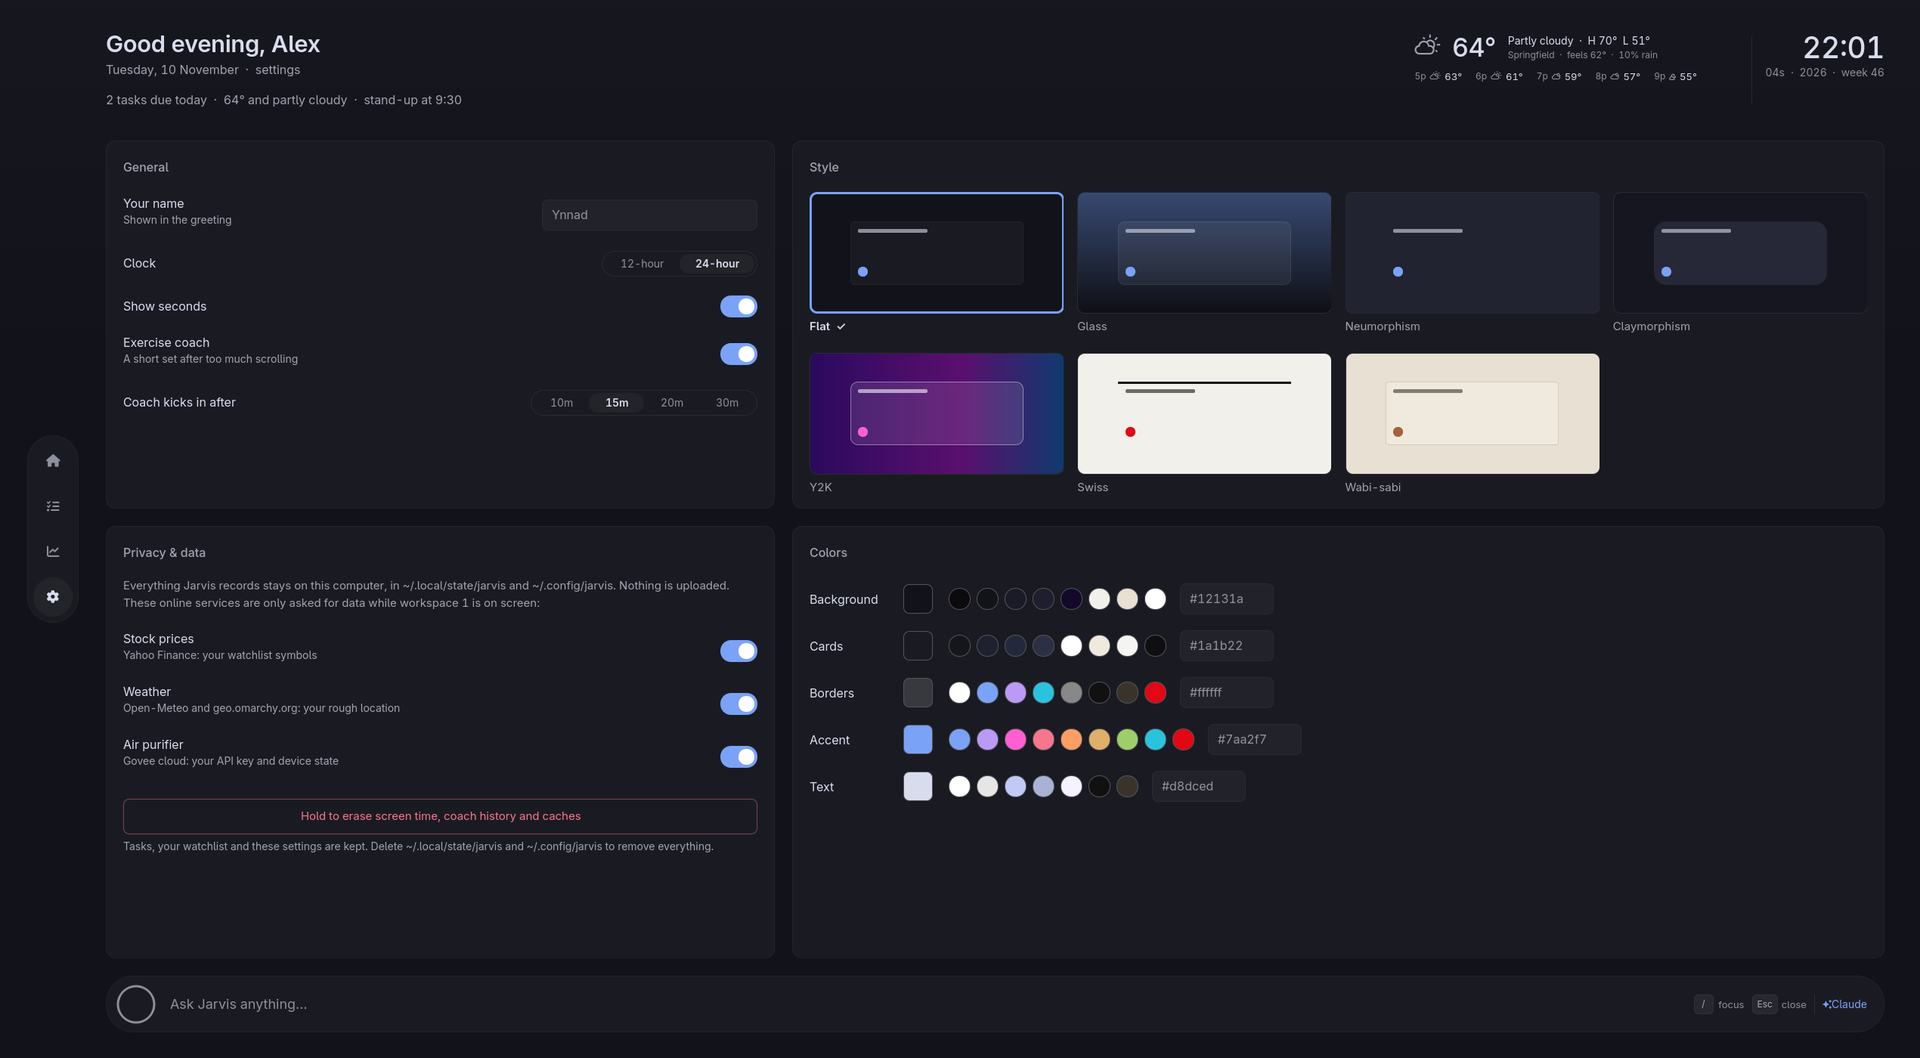
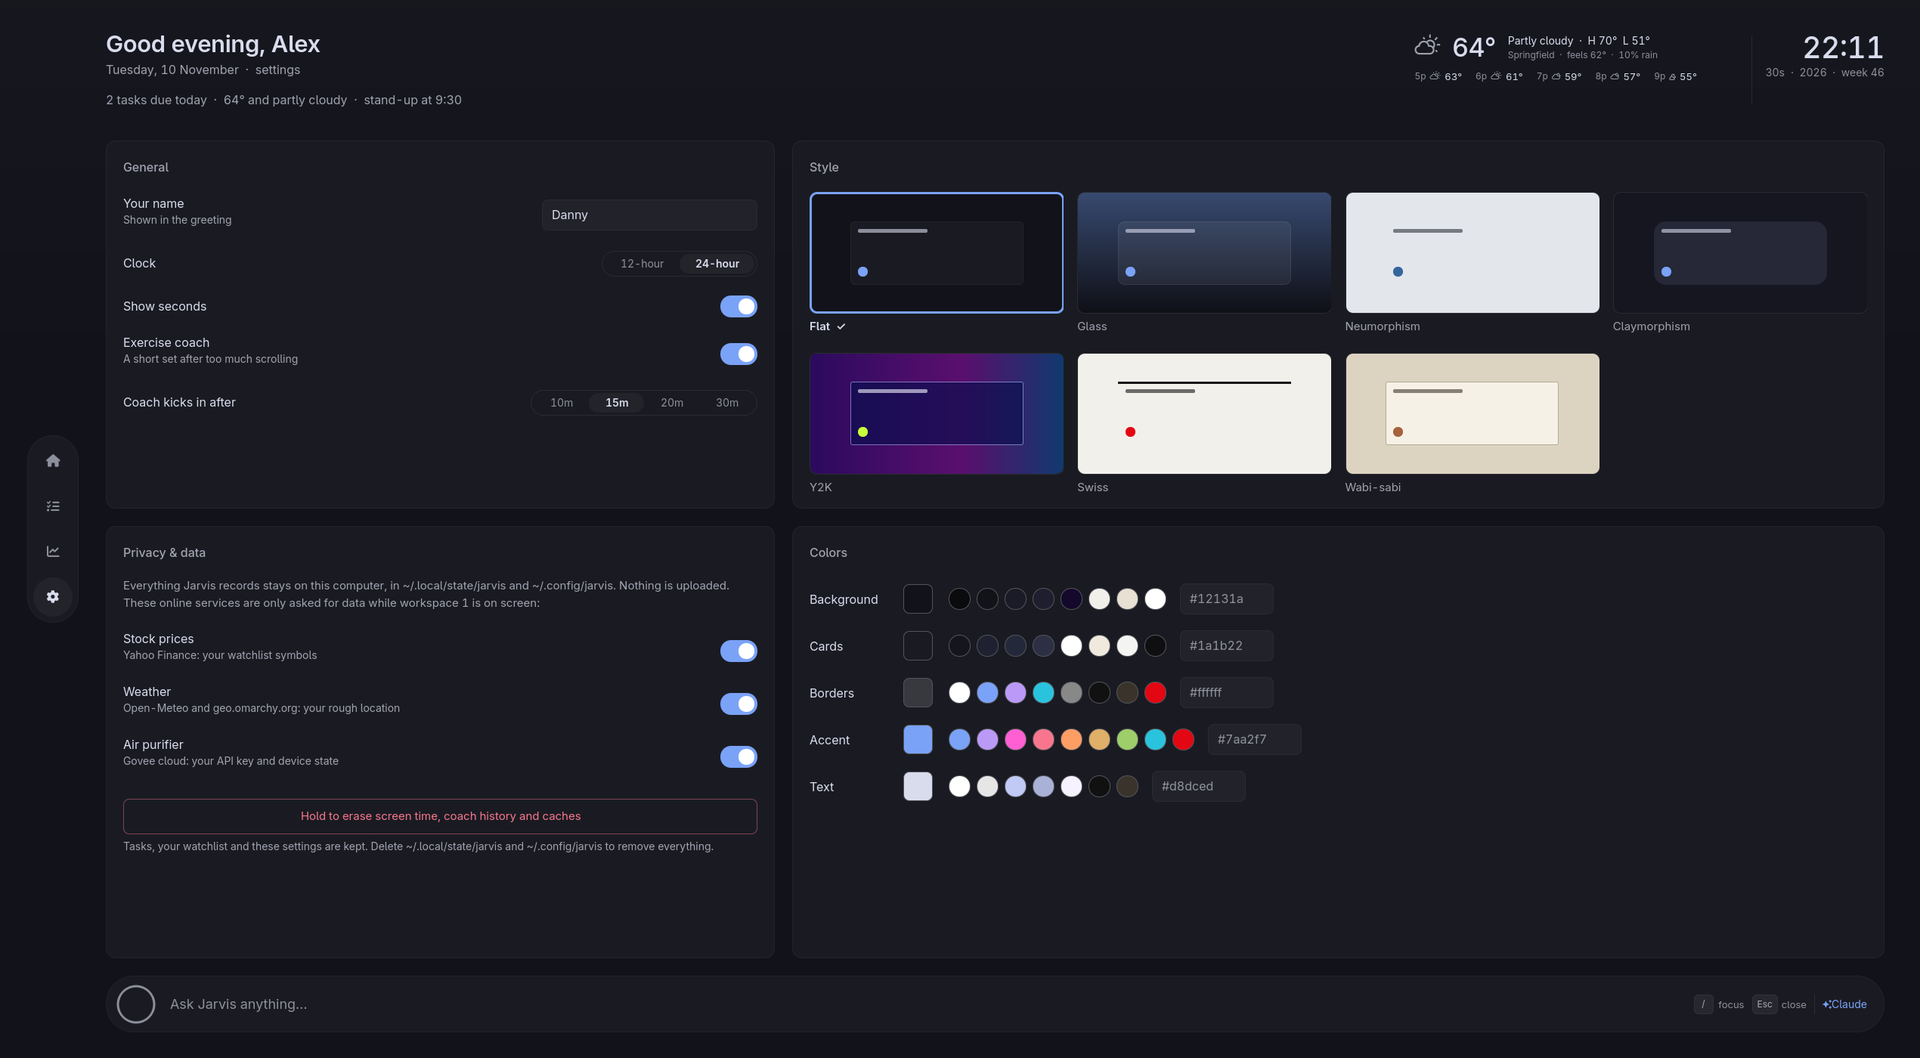
1.1.0: restyle Y2K, neumorphism and wabi-sabi; rename to omarchy-dashboard
- Y2K: electric cobalt with a perspective floor grid, a wireframe globe,
  sparkles and HUD labels; cards are retro OS windows with glossy title
  bars, window buttons, bevelled frames and hard shadows.
- Neumorphism: light soft gray, white highlights up-left, gray shade
  down-right, pressed-in fields and tracks, a muted blue accent.
- Wabi-sabi: clearer card edges, a deeper paper shadow and an inner mat
  line, so cards stand apart.
- The greeting says "User" until a name is set in Settings.
- README: a gallery of all seven styles.

Changed region(s): [[0.6875, 0.156, 0.8438, 0.3119], [0.4375, 0.3431, 0.5312, 0.4367], [0.2812, 0.1871, 0.3125, 0.2183]]

diff --git a/GlassCard.qml b/GlassCard.qml
@@ -29,6 +29,7 @@ Item {
   property real rise: t.px(8)
   readonly property bool hovered: hover.hovered
   readonly property real headerHeight: title.length > 0 ? t.px(22) : 0
+  readonly property real y2kBar: t.px(30)
   default property alias content: body.data
   property alias headerExtra: extra.data
 
@@ -62,11 +63,11 @@ Item {
   NumberAnimation { id: exit; target: card; property: "opacity"; to: 0; duration: Style.duration(110); easing.type: Easing.OutCubic }
 
   // ---- shadows (behind the surface) ----------------------------------------------
-  SoftShadow { visible: card.t.neu; target: bg; radius: bg.radius; blur: card.t.px(22); dx: -card.t.px(9); dy: -card.t.px(9); color: card.t.shadowLight; strength: 0.85 }
-  SoftShadow { visible: card.t.neu; target: bg; radius: bg.radius; blur: card.t.px(22); dx: card.t.px(9); dy: card.t.px(9); color: card.t.shadowDark; strength: 0.95 }
+  SoftShadow { visible: card.t.neu; target: bg; radius: bg.radius; blur: card.t.px(24); dx: -card.t.px(10); dy: -card.t.px(10); color: card.t.shadowLight; strength: 1.0 }
+  SoftShadow { visible: card.t.neu; target: bg; radius: bg.radius; blur: card.t.px(26); dx: card.t.px(11); dy: card.t.px(11); color: card.t.shadowDark; strength: 0.9 }
   SoftShadow { visible: card.t.clay; target: bg; radius: bg.radius; blur: card.t.px(36); dx: 0; dy: card.t.px(16); color: "black"; strength: 0.8 }
-  SoftShadow { visible: card.t.y2k; target: bg; radius: bg.radius; blur: card.t.px(26); dx: 0; dy: card.t.px(10); color: "#2a0a4a"; strength: 0.7 }
-  SoftShadow { visible: card.t.wabi; target: bg; radius: bg.radius; blur: card.t.px(16); dx: 0; dy: card.t.px(4); color: "#3a2a1a"; strength: 0.14 }
+  SoftShadow { visible: card.t.y2k; target: bg; radius: bg.radius; blur: card.t.px(3); dx: card.t.px(6); dy: card.t.px(6); color: "#00052e"; strength: 0.9; steps: 3 }
+  SoftShadow { visible: card.t.wabi; target: bg; radius: bg.radius; blur: card.t.px(22); dx: 0; dy: card.t.px(7); color: "#3a2a1a"; strength: 0.26 }
 
   // ---- the surface --------------------------------------------------------------------
   Rectangle {
@@ -125,18 +126,74 @@ Item {
       border.color: Qt.rgba(1, 1, 1, 0.07)
     }
 
-    // y2k: candy gloss over the top half
-    Rectangle {
+    // y2k: a retro OS window. Bevelled frame (light up-left, dark down-right)
+    // and a glossy title bar carrying the card's name and window buttons.
+    Item {
       visible: card.t.y2k
       anchors.fill: parent
       anchors.margins: card.t.px(1.5)
-      radius: parent.radius - card.t.px(1.5)
-      gradient: Gradient {
-        GradientStop { position: 0.0; color: Qt.rgba(1, 1, 1, 0.30) }
-        GradientStop { position: 0.45; color: Qt.rgba(1, 1, 1, 0.06) }
-        GradientStop { position: 0.5; color: Qt.rgba(1, 1, 1, 0.0) }
-        GradientStop { position: 1.0; color: Qt.rgba(1, 1, 1, 0.10) }
+      Rectangle { width: parent.width; height: 1; color: Qt.rgba(1, 1, 1, 0.55) }
+      Rectangle { width: 1; height: parent.height; color: Qt.rgba(1, 1, 1, 0.35) }
+      Rectangle { y: parent.height - 1; width: parent.width; height: 1; color: Qt.rgba(0, 0, 0.12, 0.7) }
+      Rectangle { x: parent.width - 1; width: 1; height: parent.height; color: Qt.rgba(0, 0, 0.12, 0.7) }
+
+      Rectangle {
+        id: titleBar
+        visible: card.title.length > 0
+        x: card.t.px(3); y: card.t.px(3)
+        width: parent.width - card.t.px(6)
+        height: card.y2kBar
+        radius: card.t.px(3)
+        gradient: Gradient {
+          orientation: Gradient.Horizontal
+          GradientStop { position: 0.0; color: "#1236ff" }
+          GradientStop { position: 0.7; color: "#2a63ff" }
+          GradientStop { position: 1.0; color: "#5b8cff" }
+        }
+        // Gloss across the top half of the bar.
+        Rectangle {
+          anchors.fill: parent
+          radius: parent.radius
+          gradient: Gradient {
+            GradientStop { position: 0.0; color: Qt.rgba(1, 1, 1, 0.45) }
+            GradientStop { position: 0.5; color: Qt.rgba(1, 1, 1, 0.08) }
+            GradientStop { position: 0.51; color: Qt.rgba(1, 1, 1, 0.0) }
+            GradientStop { position: 1.0; color: Qt.rgba(1, 1, 1, 0.0) }
+          }
+        }
+        Row {
+          anchors.right: parent.right
+          anchors.rightMargin: card.t.px(5)
+          anchors.verticalCenter: parent.verticalCenter
+          spacing: card.t.px(3)
+          Repeater {
+            model: ["_", "\u25a1", "\u00d7"]
+            Rectangle {
+              required property string modelData
+              width: card.t.px(17); height: width
+              radius: card.t.px(3)
+              gradient: Gradient {
+                GradientStop { position: 0.0; color: "#ffffff" }
+                GradientStop { position: 1.0; color: "#b9c6e6" }
+              }
+              border.width: 1
+              border.color: "#0a1f8f"
+              JText { t: card.t; anchors.centerIn: parent; text: parent.modelData; size: 9; font.weight: Font.Bold; color: "#0a1f8f" }
+            }
+          }
+        }
       }
+    }
+
+    // wabi: a thin inner mat line, like a framed print
+    Rectangle {
+      visible: card.t.wabi
+      anchors.fill: parent
+      anchors.margins: card.t.px(6)
+      radius: Math.max(0, parent.radius - card.t.px(3))
+      color: "transparent"
+      border.width: 1
+      border.color: Qt.rgba(0.23, 0.19, 0.14, 0.12)
     }
 
     // swiss: a heavy rule across the top instead of a box
@@ -153,9 +210,9 @@ Item {
   Item {
     id: header
     visible: card.title.length > 0
-    x: card.t.swiss ? 0 : card.pad
-    y: card.pad - card.t.px(2)
-    width: card.width - x * 2
+    x: card.t.swiss ? 0 : card.t.y2k ? card.t.px(14) : card.pad
+    y: card.t.y2k ? card.t.px(4.5) + (card.y2kBar - card.headerHeight) / 2 : card.pad - card.t.px(2)
+    width: card.width - x * 2 - (card.t.y2k ? card.t.px(62) : 0)
     height: card.headerHeight
 
     JText {
@@ -163,12 +220,13 @@ Item {
       t: card.t
       anchors.left: parent.left
       anchors.verticalCenter: parent.verticalCenter
-      text: card.t.swiss ? card.title.toUpperCase() : card.title
-      size: card.t.swiss ? 11.5 : 12.5
-      font.weight: card.t.swiss ? Font.Bold : Font.Medium
-      font.letterSpacing: card.t.swiss ? 1.2 : 0
+      text: card.t.swiss || card.t.y2k ? card.title.toUpperCase() : card.title
+      size: card.t.swiss ? 11.5 : card.t.y2k ? 11 : 12.5
+      mono: card.t.y2k
+      font.weight: card.t.swiss || card.t.y2k ? Font.Bold : Font.Medium
+      font.letterSpacing: card.t.swiss ? 1.2 : card.t.y2k ? 1.5 : 0
       font.italic: card.t.wabi
-      color: card.t.swiss ? card.t.text : card.t.textDim
+      color: card.t.y2k ? "white" : card.t.swiss ? card.t.text : card.t.textDim
     }
     JText {
       visible: card.sample
@@ -213,7 +271,7 @@ Item {
   Item {
     id: body
     x: card.t.swiss ? 0 : card.pad
-    y: card.pad + (card.title.length > 0 ? card.headerHeight + card.t.px(12) : 0)
+    y: card.t.y2k && card.title.length > 0 ? card.y2kBar + card.t.px(18) : card.pad + (card.title.length > 0 ? card.headerHeight + card.t.px(12) : 0)
     width: card.width - x * 2
     height: card.height - y - (card.t.swiss ? 0 : card.pad)
   }

diff --git a/Aurora.qml b/Aurora.qml
@@ -5,7 +5,8 @@ import QtQuick
 //   neu    one even mid-tone; the cards' shadows do the work
 //   glass  soft fields of color for the translucent panes to sit over
 //   clay   a warm glow toward the top
-//   y2k    a loud purple / magenta / cyan wash with a few bubbles
+//   y2k    electric cobalt, a perspective floor grid, a wireframe globe,
+//          sparkles and HUD labels in the margins
 //   swiss  plain paper with a faint 12-column grid
 //   wabi   warm paper with a little grain
 // Painted with gradients and a Canvas, so no shader support is needed.
@@ -63,27 +64,65 @@ Item {
         blob(w * 0.5, -h * 0.1, h * 0.9, shifted(a, 0.05, 0.35, 0.55), 0.18)
         break
       case "y2k": {
-        var g = ctx.createLinearGradient(0, 0, w, h)
-        g.addColorStop(0, "#2b0a5e")
-        g.addColorStop(0.45, "#5a0f6e")
-        g.addColorStop(0.75, "#0f3a6e")
-        g.addColorStop(1, "#06323f")
+        // Electric cobalt, brighter toward the top-right.
+        var g = ctx.createLinearGradient(0, 0, 0, h)
+        g.addColorStop(0, "#0b22e0")
+        g.addColorStop(0.55, "#06128f")
+        g.addColorStop(1, "#020538")
         ctx.fillStyle = g
         ctx.fillRect(0, 0, w, h)
-        blob(w * 0.85, h * 0.1, h * 0.6, Qt.rgba(1, 0.37, 0.82, 1), 0.55)
-        blob(w * 0.1, h * 0.9, h * 0.7, Qt.rgba(0.2, 0.9, 1, 1), 0.40)
-        // Bubbles with a glossy highlight.
-        var bubbles = [[0.62, 0.18, 0.05], [0.08, 0.3, 0.035], [0.93, 0.62, 0.06], [0.4, 0.92, 0.04]]
-        for (var i = 0; i < bubbles.length; i++) {
-          var bx = w * bubbles[i][0], by = h * bubbles[i][1], br = h * bubbles[i][2]
-          var bg = ctx.createRadialGradient(bx - br * 0.35, by - br * 0.35, br * 0.05, bx, by, br)
-          bg.addColorStop(0, "rgba(255,255,255,0.55)")
-          bg.addColorStop(0.35, "rgba(255,255,255,0.10)")
-          bg.addColorStop(0.9, "rgba(255,180,255,0.10)")
-          bg.addColorStop(1, "rgba(255,255,255,0.35)")
-          ctx.fillStyle = bg
-          ctx.beginPath(); ctx.arc(bx, by, br, 0, Math.PI * 2); ctx.fill()
+        blob(w * 0.82, h * 0.05, h * 0.75, Qt.rgba(0.35, 0.55, 1, 1), 0.55)
+        blob(w * 0.05, h * 0.95, h * 0.6, Qt.rgba(0.2, 0.9, 1, 1), 0.18)
+
+        // A perspective floor grid over the bottom third.
+        ctx.strokeStyle = "rgba(150,190,255,0.16)"
+        ctx.lineWidth = 1
+        var horizon = h * 0.62, vx = w * 0.5
+        for (var r = 1; r <= 14; r++) {
+          var fy = horizon + (h - horizon) * Math.pow(r / 14, 1.9)
+          ctx.beginPath(); ctx.moveTo(0, fy); ctx.lineTo(w, fy); ctx.stroke()
         }
+        for (var c = -14; c <= 14; c++) {
+          ctx.beginPath(); ctx.moveTo(vx + c * w * 0.012, horizon); ctx.lineTo(vx + c * w * 0.11, h); ctx.stroke()
+        }
+
+        // A wireframe globe, top right.
+        var gx = w * 0.9, gy = h * 0.2, gr = h * 0.16
+        ctx.strokeStyle = "rgba(200,220,255,0.22)"
+        ctx.beginPath(); ctx.arc(gx, gy, gr, 0, Math.PI * 2); ctx.stroke()
+        for (var k = 1; k <= 3; k++) {
+          ctx.save(); ctx.translate(gx, gy); ctx.scale(k / 4, 1)
+          ctx.beginPath(); ctx.arc(0, 0, gr, 0, Math.PI * 2); ctx.restore(); ctx.stroke()
+          ctx.save(); ctx.translate(gx, gy); ctx.scale(1, k / 4)
+          ctx.beginPath(); ctx.arc(0, 0, gr, 0, Math.PI * 2); ctx.restore(); ctx.stroke()
+        }
+
+        // Four-point sparkles with a soft halo.
+        function sparkle(x, y, r) {
+          var halo = ctx.createRadialGradient(x, y, 0, x, y, r * 2.2)
+          halo.addColorStop(0, "rgba(220,235,255,0.55)")
+          halo.addColorStop(1, "rgba(220,235,255,0)")
+          ctx.fillStyle = halo
+          ctx.beginPath(); ctx.arc(x, y, r * 2.2, 0, Math.PI * 2); ctx.fill()
+          ctx.fillStyle = "rgba(255,255,255,0.95)"
+          ctx.beginPath()
+          ctx.moveTo(x, y - r)
+          ctx.quadraticCurveTo(x, y, x + r, y)
+          ctx.quadraticCurveTo(x, y, x, y + r)
+          ctx.quadraticCurveTo(x, y, x - r, y)
+          ctx.quadraticCurveTo(x, y, x, y - r)
+          ctx.fill()
+        }
+        var stars = [[0.035, 0.12, 0.022], [0.62, 0.06, 0.014], [0.975, 0.48, 0.02], [0.3, 0.97, 0.012], [0.04, 0.72, 0.016], [0.83, 0.93, 0.018]]
+        for (var i = 0; i < stars.length; i++) sparkle(w * stars[i][0], h * stars[i][1], h * stars[i][2])
+
+        // HUD labels in the margins.
+        ctx.fillStyle = "rgba(210,225,255,0.55)"
+        ctx.font = Math.round(h * 0.0095) + "px monospace"
+        ctx.save(); ctx.translate(w - h * 0.012, h * 0.62); ctx.rotate(Math.PI / 2)
+        ctx.fillText("2000 AND BEYOND  //  DIGITAL DREAMS", 0, 0); ctx.restore()
+        ctx.save(); ctx.translate(h * 0.016, h * 0.97); ctx.rotate(-Math.PI / 2)
+        ctx.fillText(">> SYSTEM ONLINE   \u25cf  CONNECTION OK", 0, 0); ctx.restore()
         break
       }
       case "swiss": {

diff --git a/Theme.qml b/Theme.qml
@@ -63,25 +63,30 @@ QtObject {
       dark: true, base: Qt.darker(bg, 1.75), surface: Qt.rgba(1, 1, 1, 0.06), hover: Qt.rgba(1, 1, 1, 0.085),
       raised: Qt.rgba(1, 1, 1, 0.11), border: Qt.rgba(1, 1, 1, 0.13), borderStrong: Qt.rgba(1, 1, 1, 0.24),
       text: darkText, radius: 16, small: 9, font: "Adwaita Sans" }
+    // Soft UI: a light gray canvas, white highlight up-left, gray shade
+    // down-right, a muted blue for anything that's on.
     case "neu": return {
-      dark: true, base: Qt.lighter(bg, 1.3), surface: Qt.lighter(bg, 1.3), hover: Qt.lighter(bg, 1.33),
-      raised: Qt.lighter(bg, 1.3), border: Qt.rgba(1, 1, 1, 0), borderStrong: Qt.rgba(1, 1, 1, 0.07),
-      text: darkText, radius: 20, small: 10, font: "Adwaita Sans" }
+      dark: false, base: "#e3e6eb", surface: "#e3e6eb", hover: "#e6e9ee", raised: "#e3e6eb",
+      border: Qt.rgba(0, 0, 0, 0), borderStrong: Qt.rgba(0, 0, 0, 0.06), text: "#2c323b",
+      radius: 22, small: 12, font: "Adwaita Sans", accent: "#36659d", green: "#2f8a52", red: "#c94a46", yellow: "#a8701a",
+      shadowLight: "#ffffff", shadowDark: "#b4bcc8" }
     case "clay": return {
       dark: true, base: Qt.darker(bg, 1.2), surface: Qt.lighter(bg, 1.45), hover: Qt.lighter(bg, 1.55),
       raised: Qt.lighter(bg, 1.8), border: Qt.rgba(1, 1, 1, 0), borderStrong: Qt.rgba(1, 1, 1, 0.08),
       text: darkText, radius: 28, small: 14, font: "Adwaita Sans" }
+    // Y2K futurism: electric cobalt, retro OS windows, a hot lime accent.
     case "y2k": return {
-      dark: true, base: "#14092b", surface: Qt.rgba(1, 1, 1, 0.10), hover: Qt.rgba(1, 1, 1, 0.14),
-      raised: Qt.rgba(1, 1, 1, 0.20), border: Qt.rgba(1, 1, 1, 0.45), borderStrong: Qt.rgba(1, 1, 1, 0.8),
-      text: "#f7f2ff", radius: 18, small: 12, font: "Adwaita Sans", accent: "#ff5fd2" }
+      dark: true, base: "#06128f", surface: Qt.rgba(0.02, 0.05, 0.30, 0.62), hover: Qt.rgba(0.03, 0.07, 0.36, 0.70),
+      raised: Qt.rgba(1, 1, 1, 0.14), border: Qt.rgba(0.67, 0.78, 1, 0.55), borderStrong: "#dfe9ff",
+      text: "#f4f7ff", radius: 6, small: 4, font: "Adwaita Sans", accent: "#c8ff3a",
+      green: "#5dffa0", red: "#ff5c8a", yellow: "#ffe14d" }
     case "swiss": return {
       dark: false, base: "#f2f0eb", surface: "#f2f0eb", hover: "#ebe8e1", raised: "#e2ded6",
       border: "#111111", borderStrong: "#111111", text: "#111111", radius: 0, small: 0, font: "Liberation Sans",
       accent: "#e30613", green: "#1a7f37", red: "#e30613", yellow: "#a35200" }
     case "wabi": return {
-      dark: false, base: "#e7e0d3", surface: "#efe9de", hover: "#f3eee5", raised: "#ddd5c6",
-      border: Qt.rgba(0.23, 0.2, 0.17, 0.12), borderStrong: Qt.rgba(0.23, 0.2, 0.17, 0.24), text: "#3a332b",
+      dark: false, base: "#ddd3c1", surface: "#f6f1e6", hover: "#f9f5ec", raised: "#e6ddcc",
+      border: Qt.rgba(0.23, 0.19, 0.14, 0.26), borderStrong: Qt.rgba(0.23, 0.19, 0.14, 0.42), text: "#3a332b",
       radius: 5, small: 4, font: "C059", accent: "#a5623d", green: "#5f7a4a", red: "#a8553a", yellow: "#9a742b" }
     default: return {
       dark: true, base: Qt.darker(bg, 1.45), surface: Qt.tint(Qt.darker(bg, 1.45), Qt.rgba(1, 1, 1, 0.035)),
@@ -127,8 +132,8 @@ QtObject {
   readonly property color glassHover: surfaceHover
   // Neumorphism lights everything from the top-left with two tones of the
   // canvas itself: a lighter one for the lit edge, a darker one for shade.
-  readonly property color shadowLight: Qt.lighter(base, 1.3)
-  readonly property color shadowDark: Qt.darker(base, 1.7)
+  readonly property color shadowLight: preset.shadowLight || Qt.lighter(base, 1.3)
+  readonly property color shadowDark: preset.shadowDark || Qt.darker(base, 1.7)
   readonly property color glassInset: neu ? Qt.darker(base, 1.06) : clay ? Qt.darker(surface, 1.12) : inkA(dark ? 0.035 : 0.04)
   readonly property color stroke: border
   readonly property color strokeHover: borderStrong

diff --git a/Jarvis.qml b/Jarvis.qml
@@ -32,10 +32,8 @@ Item {
   readonly property string stateDir: Quickshell.env("HOME") + "/.local/state/jarvis"
   readonly property string configDir: Quickshell.env("HOME") + "/.config/jarvis"
 
-  readonly property string defaultName: {
-    var u = Quickshell.env("USER") || "there"
-    return u.charAt(0).toUpperCase() + u.slice(1)
-  }
+  // Until someone types their name in Settings, the greeting says "User".
+  readonly property string defaultName: "User"
   readonly property string userName: root.demo ? "Alex" : (root.settings.name ? root.settings.name : root.defaultName)
 
   // Demo mode (JARVIS_DEMO=1): every card shows made-up data from

diff --git a/DiscordCard.qml b/DiscordCard.qml
@@ -22,7 +22,7 @@ GlassCard {
       width: mcount.implicitWidth + card.t.px(14)
       radius: height / 2
       color: "transparent"
-      JText { id: mcount; t: card.t; anchors.centerIn: parent; text: card.mentions.length + (card.mentions.length === 1 ? " ping" : " pings") + " today"; size: 9.5; color: card.t.red }
+      JText { id: mcount; t: card.t; anchors.centerIn: parent; text: card.mentions.length + (card.mentions.length === 1 ? " ping" : " pings") + " today"; size: 9.5; color: card.t.y2k ? card.t.yellow : card.t.red }
     }
   ]
 

diff --git a/README.md b/README.md
@@ -11,10 +11,14 @@ inside the Omarchy shell as the `ynnad.jarvis` plugin.
 |---|---|---|
 | ![Tasks](docs/tasks.png) | ![Stocks](docs/stocks.png) | ![Settings](docs/settings.png) |
 
-Seven styles: flat, glass (below), neumorphism, claymorphism, Y2K, Swiss and
-wabi-sabi, with your own colors on top. Screenshots use made-up demo data.
+Seven styles, switchable in Settings, with your own colors on top: flat,
+glass, neumorphism, claymorphism, Y2K, Swiss and wabi-sabi.
 
-![Jarvis in the glass style](docs/home-glass.png)
+![All seven styles](docs/styles.jpg)
+
+![Jarvis in the Y2K style](docs/home-y2k.png)
+
+Screenshots use made-up demo data.
 
 **Not finished yet**, and labeled as such on screen: the email card ("Gmail
 isn't linked yet") and the chat bar, which answers from your local data with a
@@ -23,7 +27,7 @@ note that Claude isn't connected.
 ## Install
 
 ```bash
-omarchy plugin add https://github.com/Ynnad242/omarchy-jarvis --enable
+omarchy plugin add https://github.com/Ynnad242/omarchy-dashboard --enable
 ```
 
 Jarvis opens as a normal window. To keep it on workspace 1 and add a shortcut,
